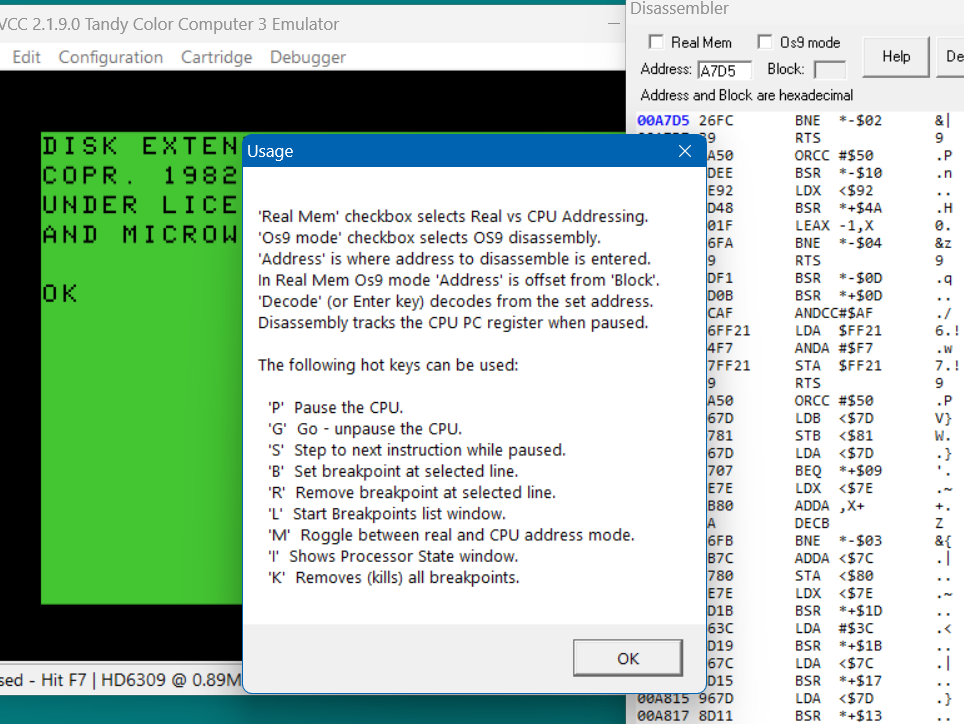
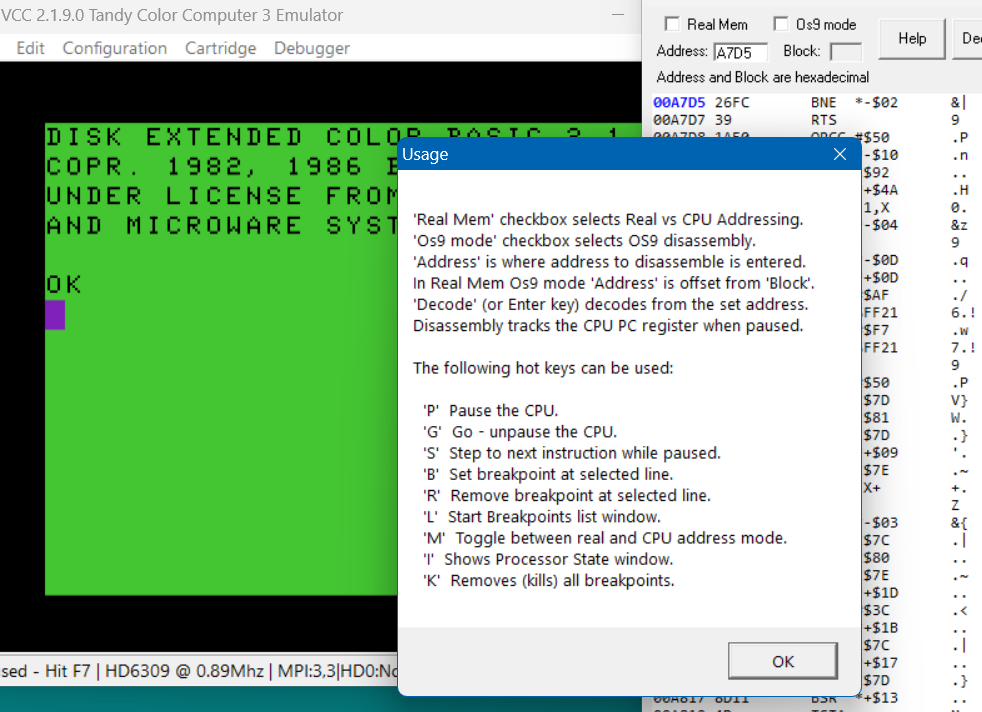
Correct typos in disassembler.md and Help messagebox

diff --git a/Disassembler.cpp b/Disassembler.cpp
@@ -183,7 +183,7 @@ char DbgHelp[] =
     "  'B'  Set breakpoint at selected line.\n"
     "  'R'  Remove breakpoint at selected line.\n"
     "  'L'  Start Breakpoints list window.\n"
-    "  'M'  Roggle between real and CPU address mode.\n"
+    "  'M'  Toggle between real and CPU address mode.\n"
     "  'I'  Shows Processor State window.\n"
     "  'K'  Removes (kills) all breakpoints.\n";
 

diff --git a/docs/disassembler.md b/docs/disassembler.md
@@ -68,11 +68,11 @@ The "Breakpoints" listbox shows the breakpoint's real address and the original o
 
 <div style="page-break-after: always;"></div>
 
-With the breakpoint set at address A7D7 use the "P" or Run button to start the CPU. The CPU immediatly pauses and the RTS instruction highlight has changed color from red to magneta.  It is that color because the PC is at the breakpoint. Notice that pressing "P" again and again seems to do nothing but if hold the hold "P" down to auto repeat you should see the DECB cursor occasionally changing color.  What is happening is the CPU is stopping everytime it encounters the breakpoint at the RTS.
+With the breakpoint set at address A7D7 use the "G" or Run button to start the CPU. The CPU immediatly pauses and the RTS instruction highlight has changed color from red to magneta.  It is that color because the PC is at the breakpoint. Notice that pressing "G" again and again seems to do nothing but if hold the hold "G" down to auto repeat you should see the DECB cursor occasionally changing color.  What is happening is the CPU is stopping everytime it encounters the breakpoint at the RTS.
 
 ![fig dis05](images/dis05.png)
 
-You can step however. This will step one instruction which will execute the RTS to return to the caller and stop.
+You can step however. 'S' will step one instruction which will execute the RTS to return to the caller and stop.
 
 <div style="page-break-after: always;"></div>
 
